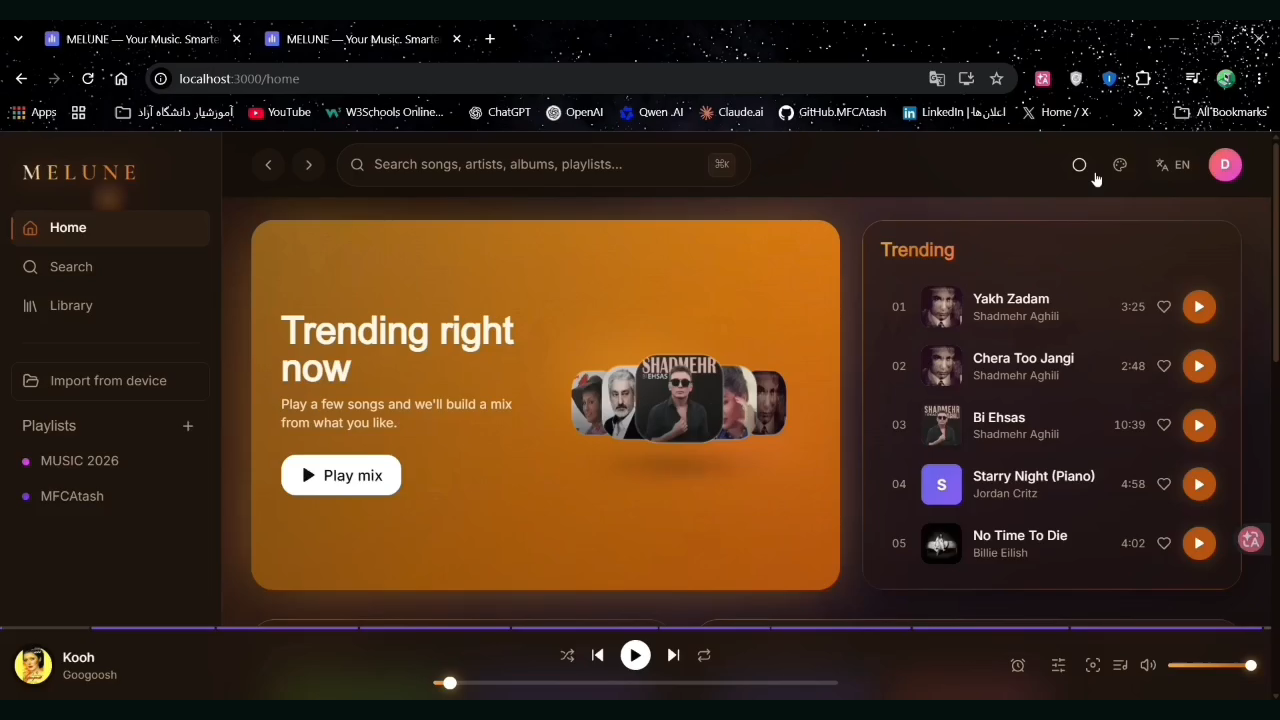
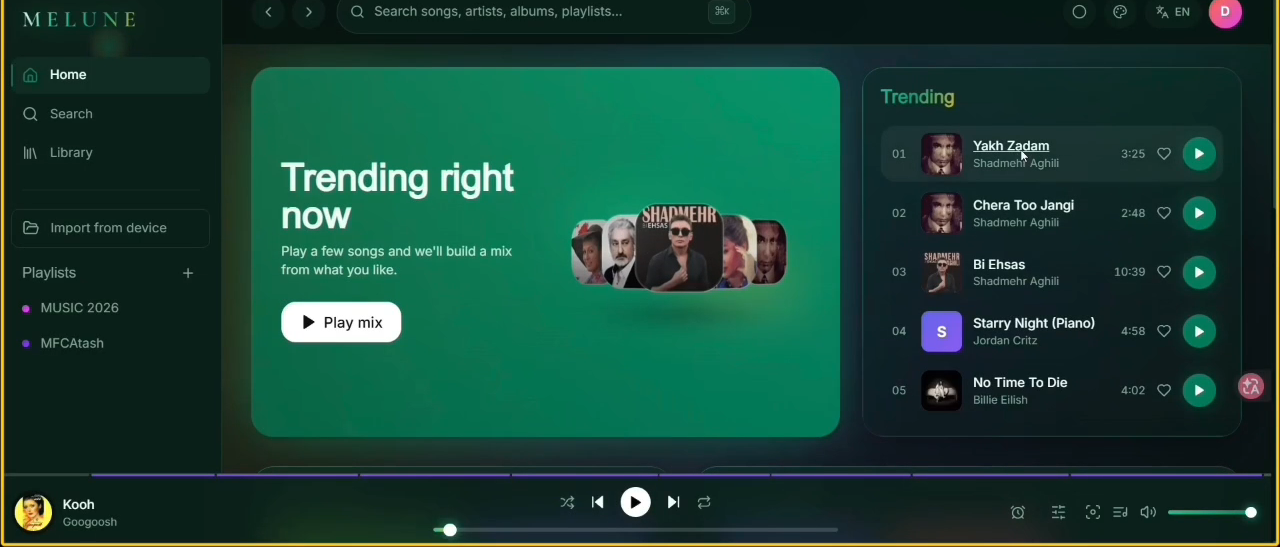
docs: add a designed player cover for the demo video

diff --git a/CHANGELOG.md b/CHANGELOG.md
@@ -8,6 +8,51 @@ them so you can read the history without opening twenty documents.
 
 ---
 
+## [Unreleased]
+
+### Added
+- Production deployment stack: `docker-compose.prod.yml`, Caddy edge with two TLS
+  modes (Let's Encrypt / Cloudflare Origin Certificate), and `.env.production.example`.
+- `scripts/deploy/configure-domain.sh` — generates `.env.production` with random
+  secrets, derives the media host and picks the right Caddyfile.
+- `scripts/deploy/oracle-bootstrap.sh` — first-boot VM setup (Docker, swap,
+  UFW/iptables, fail2ban, Docker log rotation).
+- CI/CD: GitHub Actions deploy workflow over SSH with health waits and smoke tests.
+- SEO surface: dynamic `sitemap.xml`, `robots.txt`, OpenGraph image and JSON-LD metadata.
+- Media host decoupled from the app host (`MEDIA_DOMAIN`) so deployments under an
+  existing subdomain stay inside the free Universal SSL certificate.
+
+### Changed
+- Same-origin production topology: `/api/*` and `/socket.io/*` proxied by Caddy,
+  removing CORS, cross-site cookie and WebSocket configuration from the client.
+- Server-side `trust proxy = 1` plus `ClientIpThrottlerGuard`.
+
+---
+
+## [1.0.1] — 2026-11-21
+
+Documentation and presentation release: both READMEs now open with a real
+product video, and the media-storage documentation matches reality.
+
+### Added
+- Project demo video at `docs/assets/melune-demo.mp4` (contributed by Mohammad
+  Atash) with a purpose-built 1280×720 player cover
+  (`docs/assets/melune-demo-cover.png`: play button, progress bar, duration and
+  version), a poster frame and a lightweight animated GIF tour. The cover is
+  linked to the MP4 at the top of both root READMEs, so the video is never a
+  bare text link.
+- Guest browsing: the public home feed renders for signed-out visitors instead
+  of redirecting to `/login`; personalised rows still require an account.
+
+### Fixed
+- `docs/media.md` claimed media was tracked with Git LFS. The LFS migration was
+  reverted (upload authentication failed), so the guide now states that media
+  is committed directly to git and positions R2 as the production path.
+- `docs/README.md` now indexes the demo video, cover, poster and teaser next to
+  the rest of the visual assets.
+
+---
+
 ## [1.0.0] — 2026-11-20
 
 First public release of MELUNE as an open-source repository.
@@ -52,9 +97,6 @@ First public release of MELUNE as an open-source repository.
   that follows the host's play/pause/seek/track.
 - Compact 1280×660 theme grid and a real album-art Cover Flow hero, with
   roomier, aligned spacing in both READMEs.
-- Project demo video at `docs/assets/melune-demo.mp4` (contributed by
-  Mohammad Atash) with a generated poster frame, embedded with a player and a
-  direct download link at the top of both READMEs.
 - Auth: `@Public()` routes now still resolve `@CurrentUser()` when a valid
   bearer token is present (an invalid one stays anonymous instead of 401).
   Previously the guard short-circuited before passport ran, so the signed-in
@@ -107,27 +149,6 @@ First public release of MELUNE as an open-source repository.
 - Root README stated the repository was private although it is public; the
   access section now describes the actual public status.
 - Pull-request template link to `CONTRIBUTING.md` is now repo-relative.
-
----
-
-## [Unreleased]
-
-### Added
-- Production deployment stack: `docker-compose.prod.yml`, Caddy edge with two TLS
-  modes (Let's Encrypt / Cloudflare Origin Certificate), and `.env.production.example`.
-- `scripts/deploy/configure-domain.sh` — generates `.env.production` with random
-  secrets, derives the media host and picks the right Caddyfile.
-- `scripts/deploy/oracle-bootstrap.sh` — first-boot VM setup (Docker, swap,
-  UFW/iptables, fail2ban, Docker log rotation).
-- CI/CD: GitHub Actions deploy workflow over SSH with health waits and smoke tests.
-- SEO surface: dynamic `sitemap.xml`, `robots.txt`, OpenGraph image and JSON-LD metadata.
-- Media host decoupled from the app host (`MEDIA_DOMAIN`) so deployments under an
-  existing subdomain stay inside the free Universal SSL certificate.
-
-### Changed
-- Same-origin production topology: `/api/*` and `/socket.io/*` proxied by Caddy,
-  removing CORS, cross-site cookie and WebSocket configuration from the client.
-- Server-side `trust proxy = 1` plus `ClientIpThrottlerGuard`.
 
 ---
 

diff --git a/docs/media.md b/docs/media.md
@@ -1,17 +1,26 @@
-# Media assets: Git LFS and R2
+# Media assets: repository storage and R2
 
 `apps/web/public` contains the demo catalog: 74 `.m4a` tracks, 28 `.mp3`
 samples and 86 cover images. These are the largest files in the repository.
+`docs/assets/` adds the README artwork and the 35 MB project demo video.
 
 ## Current state
 
-All of them are tracked with **Git LFS** — see `.gitattributes`. The main git
-tree stores only small pointer files; the binaries live in GitHub LFS storage.
-This keeps `git clone` and CI checkouts fast.
+The media is committed **directly to git** (no Git LFS). A Git LFS migration
+was prepared and then reverted: LFS uploads failed authentication for this
+repository, and leaving half the objects as pointers would have broken clones.
+`.gitattributes` still marks every binary extension (`*.m4a`, `*.mp3`, `*.png`,
+`*.mp4`, …) so diffs and merges never treat media as text, but the bytes
+themselves live in the normal git object store. A fresh clone is therefore
+large (about 340 MB including history).
 
-> Git history still contains the original binaries from before the LFS
+> Git history contains the original binaries from before the attempted LFS
 > migration. A history rewrite (`git filter-repo`) is deliberately **not**
-> performed because it would invalidate every existing clone and fork.
+> performed because it would invalidate every existing clone and fork. Treat
+> the current history as append-only.
+
+Adding another large demo video or lossless audio file should go through the
+R2 path below rather than growing the clone further.
 
 ## Moving to R2 (recommended for production)
 
@@ -24,8 +33,12 @@ This keeps `git clone` and CI checkouts fast.
    ./scripts/deploy/migrate-media-to-r2.sh
    ```
 3. Rewrite stored URLs: `./scripts/deploy/fix-media-urls.sh --apply`.
-4. In a follow-up commit, remove the LFS paths from `apps/web/public` and set
+4. In a follow-up commit, remove the media paths from `apps/web/public` and set
    `STORAGE_PUBLIC_URL` / `MEDIA_DOMAIN` in `.env.production`.
+
+The README artwork and demo video are static documentation assets, not runtime
+media: they can stay in `docs/assets/` (or move to the repository's release
+assets) without touching the application code.
 
 ## Licensing note
 

diff --git a/README-FA.md b/README-FA.md
@@ -10,18 +10,6 @@
 
 <br />
 
-## 🎬 ویدیو معرفی پروژه
-
-<p align="center">
-  <video src="docs/assets/melune-demo.mp4" poster="docs/assets/melune-demo-poster.png" controls width="960"></video>
-</p>
-<p align="center">
-  <sub>ویدیوی ۱:۵۳ دقیقهای از اپلیکیشن واقعی ·
-  <a href="docs/assets/melune-demo.mp4">دانلود MP4</a></sub>
-</p>
-
-<br />
-
 # MELUNE — موسیقی شما، هوشمندتر
 
 **MELUNE — پلتفرم فولاستک پخش و کشف موسیقی، فارسیمحور و RTL.**
@@ -33,6 +21,19 @@ Redis، کارگر ترنسکود HLS با ffmpeg، کلاینت Expo و یک س
 تصویر بالا از **کاتالوگ واقعی پروژه** ساخته شده (گوگوش، ابی، شادمهر عقیلی، هایده…)
 و دقیقاً همان Cover Flow را نشان میدهد که در اپلیکیشن در حال اجرا است. تصاویر پایین هم
 از خود نرمافزارند، نه ماکت.
+
+<br />
+
+## 🎬 ویدیو معرفی پروژه
+
+<p align="center">
+  <a href="docs/assets/melune-demo.mp4"><img src="docs/assets/melune-demo-cover.png" alt="ویدیو معرفی MELUNE — ویدیوی ۱:۵۳ از اپلیکیشن. برای پخش کلیک کنید." width="860" /></a>
+</p>
+<p align="center">
+  <sub>ویدیوی ۱:۵۳ از اپلیکیشن واقعی ·
+  <a href="docs/assets/melune-demo.mp4">پخش / دانلود MP4</a> ·
+  <a href="docs/assets/melune-demo-teaser.gif">پیشنمایش کوتاه (GIF)</a></sub>
+</p>
 
 <br />
 

diff --git a/docs/README.md b/docs/README.md
@@ -19,7 +19,7 @@ installation and a feature tour.
 | [ai.md](ai.md) | Optional FastAPI recommendation service |
 | [lockfile.md](lockfile.md) | Why `package-lock.json` is committed and how CI guards it |
 | [github-access.md](github-access.md) | Repository roles and read-only collaborator script |
-| [media.md](media.md) | Git LFS migration and moving demo media to R2 |
+| [media.md](media.md) | Demo media storage: direct-in-git trade-offs and moving to R2 |
 | [project-analysis-fa.md](project-analysis-fa.md) | تحلیل فنی جامع مونوریپو (سند تاریخی ۲۰۲۶-۱۱-۱۸) |
 | [roadmap-visuals-fa.md](roadmap-visuals-fa.md) | نقشهٔ راه جلدها، هویت بصری و قابلیتهای نمایشی |
 
@@ -29,9 +29,11 @@ All covers, screenshots and the social preview live in
 [`assets/`](assets). Each cover ships as an editable SVG plus a PNG render at
 1280×640. The hero cover used in both READMEs is **Emerald Editorial**.
 
-The 1:53 [project demo video](assets/melune-demo.mp4) (with its
-[poster frame](assets/melune-demo-poster.png)) is embedded at the top of both
-root READMEs.
+The 1:53 [project demo video](assets/melune-demo.mp4) is embedded at the top of
+both root READMEs through a purpose-built 1280×720
+[cover](assets/melune-demo-cover.png) with player chrome and a play button, plus
+a [poster frame](assets/melune-demo-poster.png) and a lightweight
+[animated GIF teaser](assets/melune-demo-teaser.gif).
 
 ## Release history
 

diff --git a/README.md b/README.md
@@ -10,18 +10,6 @@
 
 <br />
 
-## 🎬 Demo video
-
-<p align="center">
-  <video src="docs/assets/melune-demo.mp4" poster="docs/assets/melune-demo-poster.png" controls width="960"></video>
-</p>
-<p align="center">
-  <sub>1:53 walkthrough of the real app ·
-  <a href="docs/assets/melune-demo.mp4">Download the MP4</a></sub>
-</p>
-
-<br />
-
 # MELUNE
 
 **MELUNE — Your Music. Smarter.**
@@ -34,6 +22,19 @@ HLS transcode worker, an Expo mobile client and an optional FastAPI recommender
 The artwork above is the **real catalogue shipped with the project** (Googoosh,
 Ebi, Shadmehr Aghili, Hayedeh…), arranged exactly like the app's Cover Flow.
 The screenshots below are from the running product — not mockups.
+
+<br />
+
+## 🎬 Demo video
+
+<p align="center">
+  <a href="docs/assets/melune-demo.mp4"><img src="docs/assets/melune-demo-cover.png" alt="MELUNE product demo — 1:53 walkthrough. Click to play." width="860" /></a>
+</p>
+<p align="center">
+  <sub>1:53 walkthrough of the real app ·
+  <a href="docs/assets/melune-demo.mp4">watch / download the MP4</a> ·
+  <a href="docs/assets/melune-demo-teaser.gif">animated preview</a></sub>
+</p>
 
 <br />
 

diff --git a/docs/roadmap-visuals-fa.md b/docs/roadmap-visuals-fa.md
@@ -3,7 +3,7 @@
 > سندی زنده برای ارتقای ظاهر، جلدها و قابلیتهای نمایشی پروژه.
 > هر آیتم با تخمین اثر (Impact) و هزینه (Effort) مشخص شده تا بتوان تیکبهتیک جلو رفت.
 
-**وضعیت پیادهسازی (۲۰۲۶-۱۱-۲۰):**
+**وضعیت پیادهسازی (۲۰۲۶-۱۱-۲۱):**
 
 | مورد | وضعیت |
 |---|---|
@@ -18,6 +18,7 @@
 | Theme Studio (پالت سفارشی + لینک اشتراک) | ✅ انجام شد (/theme-studio) |
 | اتاق «با هم گوش دادن» (WebSocket + حضور) | ✅ انجام شد (RoomsGateway + RoomPanel) |
 | هیرو Cover Flow + گرید فشرده تمها + فاصلهگذاری README | ✅ انجام شد |
+| ویدیوی معرفی ۱:۵۳ + کاور پلیر + پوستر + پیشنمایش GIF | ✅ انجام شد (`docs/assets/melune-demo.*`) |
 
 ---
 
